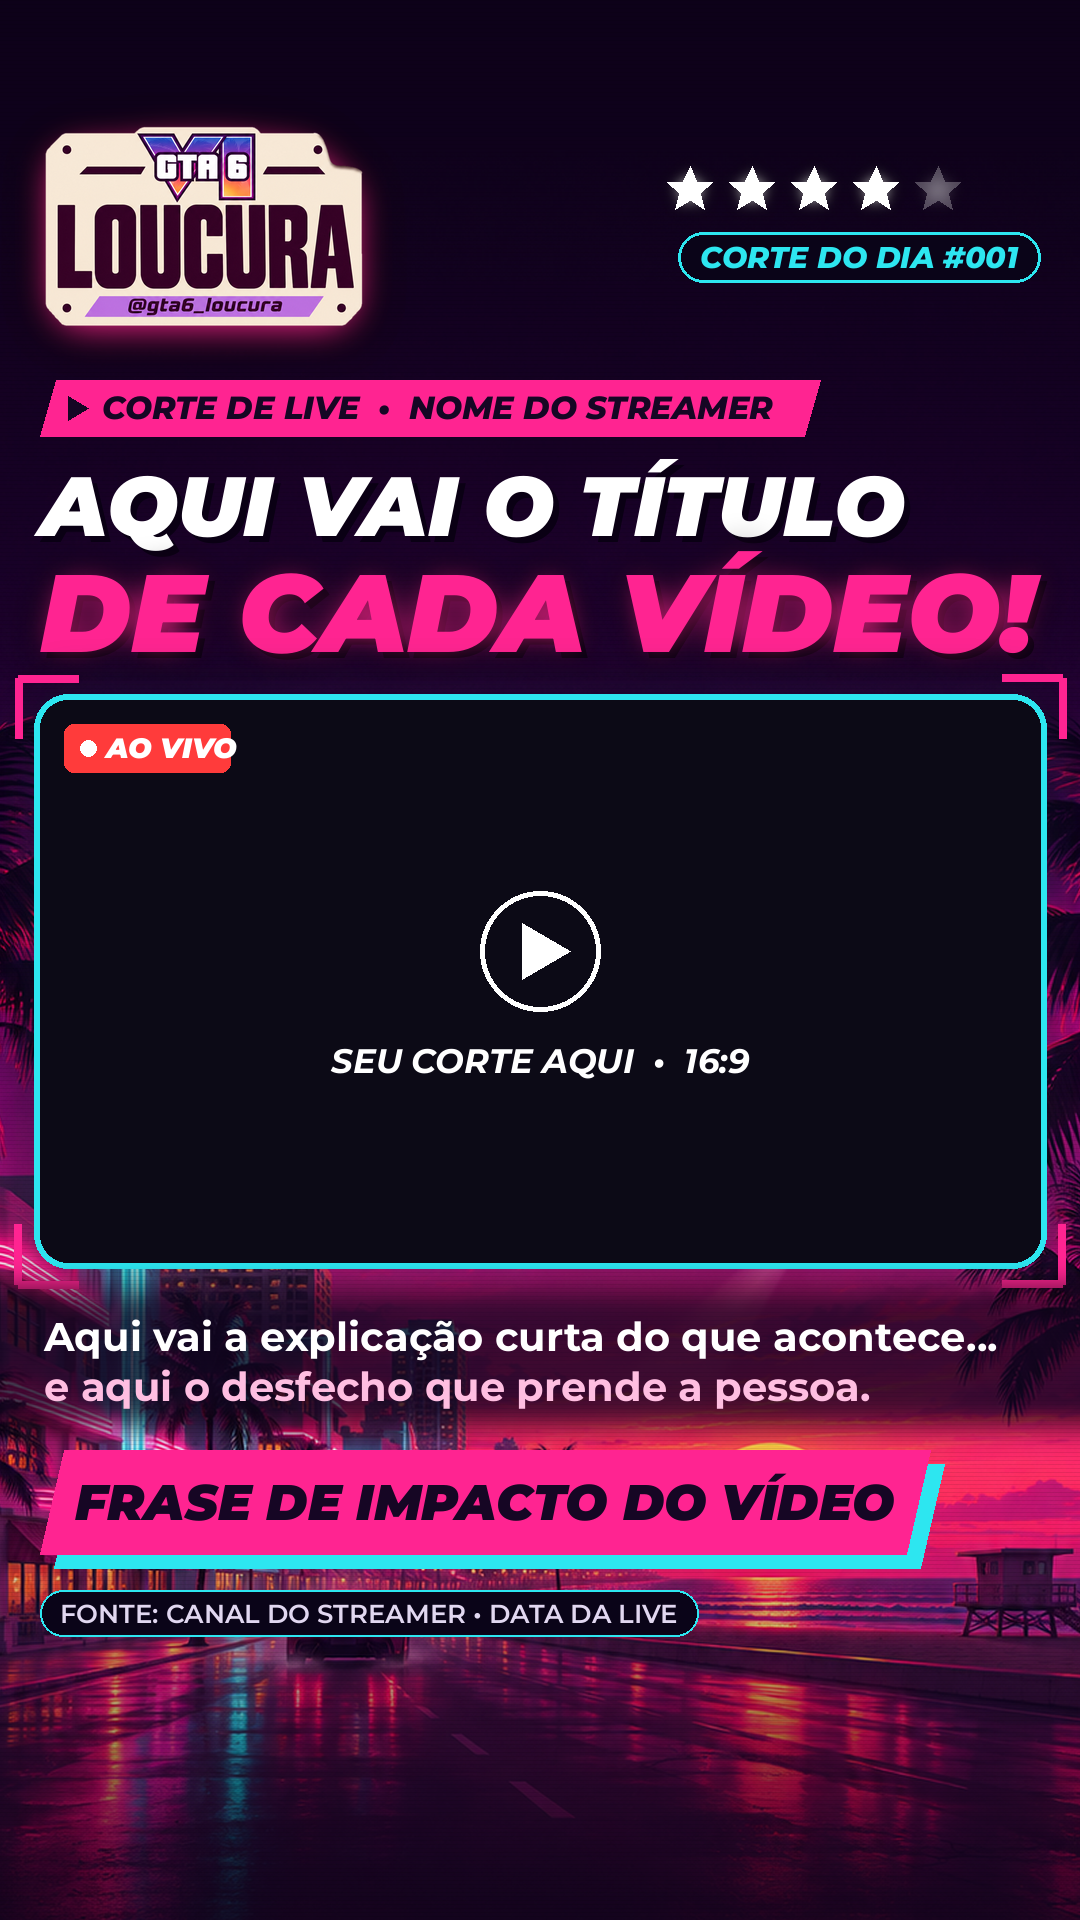
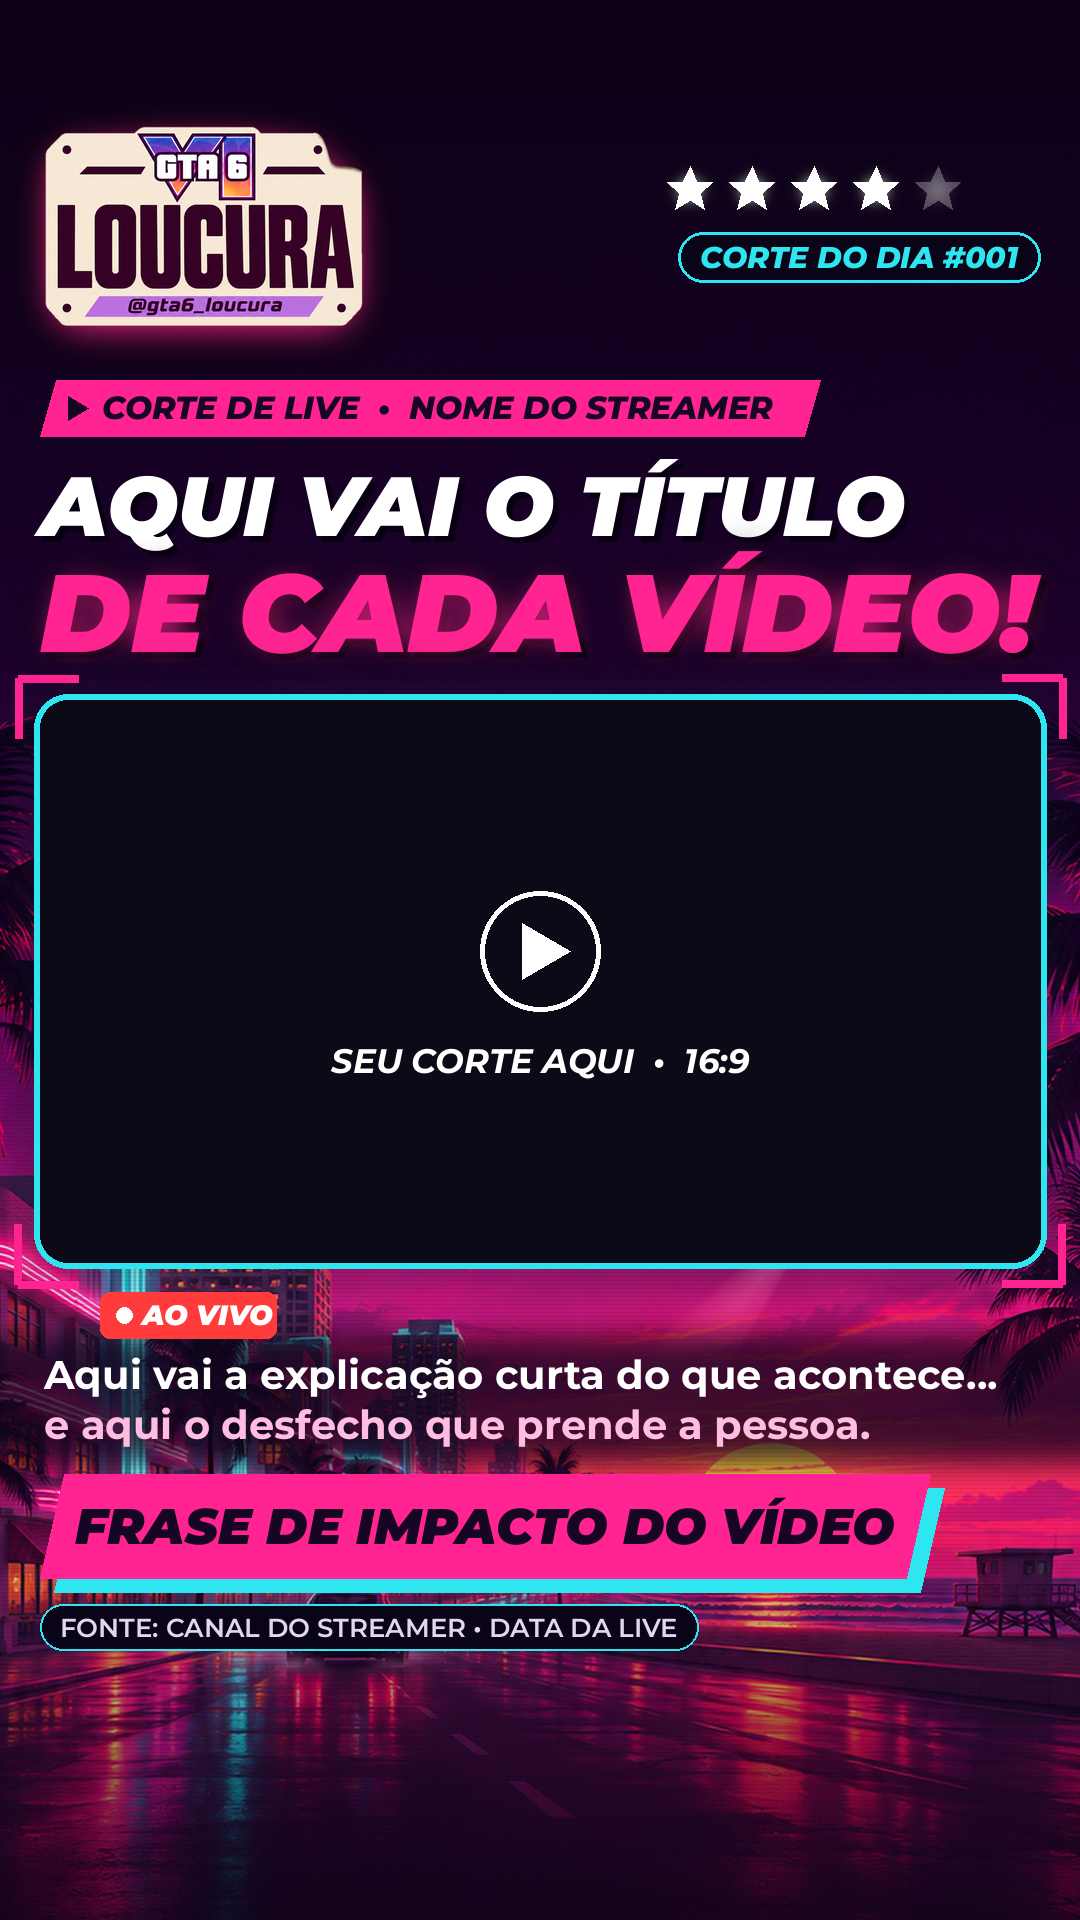
GTA Loucura: selo AO VIVO fora da janela do vídeo + molduras das 3 opções (corte #002)
Claude-Session: https://claude.ai/code/session_01PG81yox6oPVQ1jRhfWPUtz

Changed region(s): [[0.0, 0.6562, 1.0, 0.875], [0.0611, 0.375, 0.2139, 0.4062]]

diff --git a/gta-loucura/scripts/layout_v3.py b/gta-loucura/scripts/layout_v3.py
@@ -119,24 +119,27 @@ def montar(t, janela_transparente=False):
         d.text((cx, cy + 80), 'SEU CORTE AQUI  •  16:9', font=fonte(34, 'Bold'), fill=(255, 255, 255, 120), anchor='mm')
     for (x, y, sx, sy) in [(VX0 - 22, VY0 - 22, 1, 1), (VX1 + 22, VY0 - 22, -1, 1), (VX0 - 22, VY1 + 22, 1, -1), (VX1 + 22, VY1 + 22, -1, -1)]:
         d.line([(x, y), (x + sx * 60, y)], fill=PINK, width=8); d.line([(x, y), (x, y + sy * 60)], fill=PINK, width=8)
-    d.rounded_rectangle([VX0 + 24, VY0 + 24, VX0 + 190, VY0 + 72], radius=10, fill=RED)
-    d.ellipse([VX0 + 40, VY0 + 40, VX0 + 56, VY0 + 56], fill=WHITE)
-    d.text((VX0 + 66, VY0 + 48), 'AO VIVO', font=fonte(28, 'Black'), fill=WHITE, anchor='lm')
     # legenda com faixa escura
     band = Image.new('RGBA', (W, H), (0, 0, 0, 0))
-    ImageDraw.Draw(band).rectangle([0, 1290, W, 1425], fill=(14, 4, 28, 200))
+    ImageDraw.Draw(band).rectangle([0, 1336, W, 1462], fill=(14, 4, 28, 200))
     im.alpha_composite(band.filter(ImageFilter.GaussianBlur(14))); d = ImageDraw.Draw(im)
+    # selo AO VIVO: fora da janela do vídeo, canto inferior direito (regra fixa)
+    # (à esquerda: o lado direito fica sob os botões do Instagram)
+    bx0, by0 = 100, VY1 + 30
+    d.rounded_rectangle([bx0, by0, bx0 + 176, by0 + 46], radius=10, fill=RED)
+    d.ellipse([bx0 + 16, by0 + 15, bx0 + 32, by0 + 31], fill=WHITE)
+    d.text((bx0 + 42, by0 + 23), 'AO VIVO', font=fonte(28, 'Black'), fill=WHITE, anchor='lm')
     fb = fonte(40, 'Bold', italic=False)
-    d.text((44, 1312), t['legenda_1'], font=fb, fill=WHITE)
-    d.text((44, 1362), t['legenda_2'], font=fb, fill=(255, 190, 225))
+    d.text((44, 1350), t['legenda_1'], font=fb, fill=WHITE)
+    d.text((44, 1400), t['legenda_2'], font=fb, fill=(255, 190, 225))
     # faixa rosa com sombra ciano (fora da área dos botões do Instagram)
-    y, bw = 1450, 890
+    y, bw = 1474, 890
     para(54, y + 14, bw, 104, CYAN, 24); para(40, y, bw, 104, PINK, 24)
     d.text((40 + bw / 2, y + 52), t['faixa'], font=caber(d, t['faixa'], 'Black', 50, 32, 820), fill=DARK, anchor='mm')
     # crédito
     ft = fonte(26, 'SemiBold', italic=False); tw = d.textlength(t['credito'], font=ft)
-    d.rounded_rectangle([40, 1590, 40 + tw + 40, 1636], radius=23, fill=(10, 4, 24, 220), outline=(*CYAN, 180), width=2)
-    d.text((60, 1613), t['credito'], font=ft, fill=(225, 215, 240), anchor='lm')
+    d.rounded_rectangle([40, 1604, 40 + tw + 40, 1650], radius=23, fill=(10, 4, 24, 220), outline=(*CYAN, 180), width=2)
+    d.text((60, 1627), t['credito'], font=ft, fill=(225, 215, 240), anchor='lm')
     return im
 
 if __name__ == '__main__':
